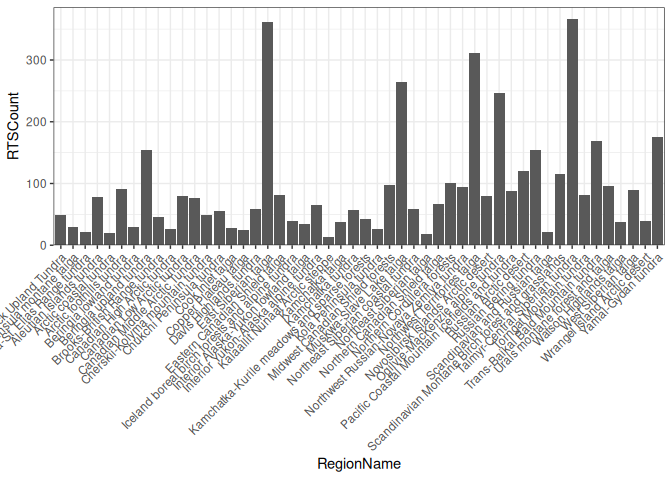
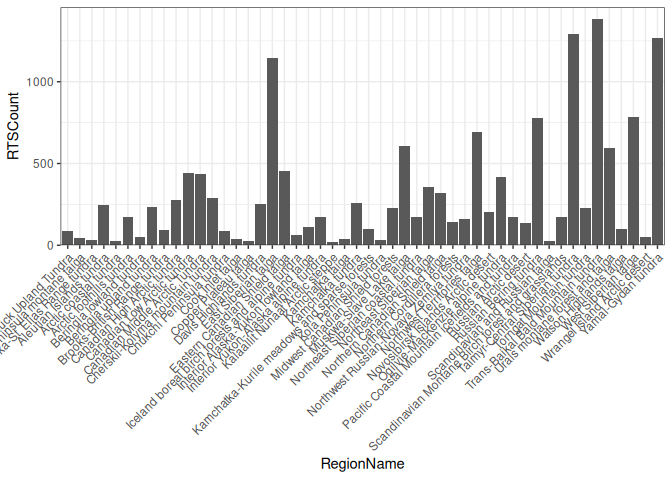
minor changes to training data map aesthetics

Changed region(s): [[0.0, 0.0, 1.0, 0.9062], [0.4688, 0.875, 0.5938, 1.0], [0.1875, 0.8438, 0.2188, 0.9062]]

diff --git a/domain/training_data_distribution.md b/domain/training_data_distribution.md
@@ -21,16 +21,16 @@ region_train_count
 # A tibble: 50 × 3
    RegionName                        RTSCount RTSPercent
    <chr>                                <int>      <dbl>
- 1 Taimyr-Central Siberian tundra         367     0.0803
- 2 East Siberian taiga                    361     0.0790
- 3 Northwest Territories taiga            312     0.0682
- 4 Muskwa-Slave Lake taiga                265     0.0580
- 5 Ogilvie-MacKenzie alpine tundra        246     0.0538
- 6 Yamal-Gydan tundra                     176     0.0385
- 7 Trans-Baikal Bald Mountain tundra      169     0.0370
- 8 Beringia upland tundra                 155     0.0339
- 9 Russian Bering tundra                  155     0.0339
-10 Russian Arctic desert                  120     0.0262
+ 1 Trans-Baikal Bald Mountain tundra     1386     0.0893
+ 2 Taimyr-Central Siberian tundra        1294     0.0834
+ 3 Yamal-Gydan tundra                    1270     0.0819
+ 4 East Siberian taiga                   1145     0.0738
+ 5 West Siberian taiga                    784     0.0505
+ 6 Russian Bering tundra                  780     0.0503
+ 7 Northwest Territories taiga            692     0.0446
+ 8 Muskwa-Slave Lake taiga                610     0.0393
+ 9 Urals montane forest and taiga         593     0.0382
+10 Eastern Canadian Shield taiga          452     0.0291
 # ℹ 40 more rows
 ```
 
